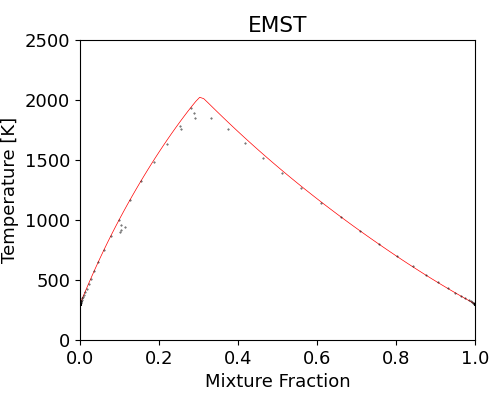
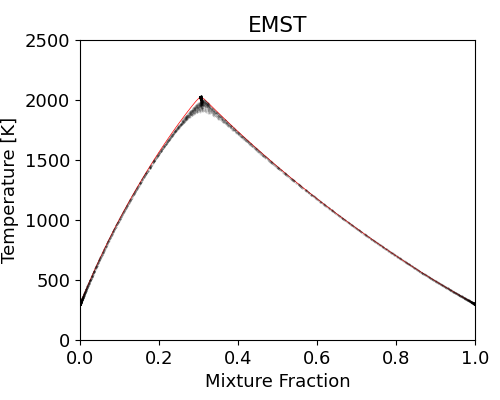
add implementation details; change EMST timescale

diff --git a/PaSR_main.py b/PaSR_main.py
@@ -41,6 +41,10 @@ def run_simulation(mech, case, T0, P, eq_ratio, fuel, oxidizer, mix_model="IEM",
     """
     # Time step control
     dt = 0.1 * min(tau_res, tau_mix)
+
+    if mix_model=="EMST" or mix_model=="EMST1D": # EMST need smaller timestep
+        dt /= 5
+
     time_end = num_res * tau_res
     num_steps = int(time_end / dt + 10)
 
@@ -133,7 +137,7 @@ def run_simulation(mech, case, T0, P, eq_ratio, fuel, oxidizer, mix_model="IEM",
         else:
             dt = dt
 
-        # ======
+        # ==========
         # flow in/out
         part_out += Np * dt / tau_res
         npart_out = int(round(part_out))
@@ -146,20 +150,20 @@ def run_simulation(mech, case, T0, P, eq_ratio, fuel, oxidizer, mix_model="IEM",
 
         t1 = time.time()
 
-        # ======
+        # ==========
         # mixing
         mix_substep(particles, dt, tau_mix,
                     fuel, oxidizer, model=mix_model, sigma_k=sigma_k)
 
         t2 = time.time()
 
-        # ======
+        # ==========
         # reacting
         reaction_substep(particles, dt, mech)
 
         t3 = time.time()
 
-        # ======
+        # ==========
         # Save states
         t += dt
         i_step += 1
@@ -169,10 +173,10 @@ def run_simulation(mech, case, T0, P, eq_ratio, fuel, oxidizer, mix_model="IEM",
         save_data(i_step, t, particles, particle_data)
 
         print('t/tres = {:4.2f},  <T> = {:6.1f}'.format(t/tau_res, temp_mean[i_step]))
-        # print('{:.1e}, {:.1e}, {:.1e}'.format(
-        #        t1-t0,  t2-t1,  t3-t2)
+        # print('cost  of flow {:.1e}, mix {:.1e}, react {:.1e}'.format(
+        #                       t1-t0,      t2-t1,        t3-t2)
 
-        # ======
+        # ==========
         # plot
         if doplot:
             plt.ion()
@@ -269,12 +273,12 @@ if __name__ == "__main__":
     plt.figure(2, figsize=(5,4))
     plt.plot(mfs, Teq, 'r-', lw=0.5)
     mf_arr = []
-    for j in range(Ntimes-1, Ntimes, 1):
+    for j in range(Ntimes-100, Ntimes, 5):
         mf = np.array([get_mixture_fraction(gas, inputs['fuel'], inputs['oxidizer'], 
                 particle_data[j,i,3:]) for i in range(Nparticles)])
         Tp = particle_data[j,:,1]
         mf_arr.append(mf)
-        plt.plot(mf, Tp, 'k.', ms=0.8, alpha=0.8)
+        plt.plot(mf, Tp, 'k.', ms=0.8, alpha=0.2)
     plt.xlim([0,1])
     plt.ylim([0,2500])
     plt.title(casename)
@@ -292,5 +296,17 @@ if __name__ == "__main__":
     plt.xlim([0,1])
     plt.xlabel("Z")
     plt.ylabel("PDF")
+
+    # plt.figure(4, figsize=(5,4))
+    # for j in range(Ntimes-1, Ntimes, 1):
+    #     mf = np.array([get_mixture_fraction(gas, inputs['fuel'], inputs['oxidizer'], 
+    #             particle_data[j,i,3:]) for i in range(Nparticles)])
+    #     Tp = particle_data[j,:,1+gas.species_index("OH")]
+    #     plt.plot(mf, Tp, 'k.', ms=0.8, alpha=0.8)
+    # plt.xlim([0,1])
+    # plt.title(casename)
+    # plt.xlabel("Mixture Fraction")
+    # plt.ylabel("Y_{OH}")
+    # plt.subplots_adjust(left=0.16, right=0.95, top=0.9, bottom=0.15)
 
     plt.show()

diff --git a/PaSR_models.py b/PaSR_models.py
@@ -181,7 +181,8 @@ def mix_substep(particles, dt, tau_mix, fuel, oxidizer, model="IEM", sigma_k=Non
             BB = 2*np.mean(dphi * phis, axis=0)
             CC = 1./tau_mix * varPhi
             dt = min(dt, np.min(1. * BB**2 / (4*AA*CC)))
-            alphaPhi = ( -BB + np.sqrt(abs(BB*BB-4*AA*CC*dt)) ) / (2*AA*dt)
+            alphaPhi = -BB / (2*AA*dt)
+            #alphaPhi = ( -BB - np.sqrt(abs(BB*BB-4*AA*CC*dt)) ) / (2*AA*dt)
             alphaPhi = np.min(alphaPhi)
             
             dt = dt_in if dt_in <= dt else dt
@@ -282,7 +283,8 @@ def mix_substep(particles, dt, tau_mix, fuel, oxidizer, model="IEM", sigma_k=Non
             BB = 2*np.mean(dphi * phis, axis=0)
             CC = 1./tau_mix * varPhi
             dt = min(dt, np.min(1. * BB**2 / (4*AA*CC)))
-            alphaPhi = ( -BB + np.sqrt(abs(BB*BB-4*AA*CC*dt)) ) / (2*AA*dt)
+            alphaPhi =  -BB / (2*AA*dt)
+            # alphaPhi = ( -BB - np.sqrt(abs(BB*BB-4*AA*CC*dt)) ) / (2*AA*dt)
             alphaPhi = np.min(alphaPhi)
 
             dt = dt_in if dt_in <= dt else dt
@@ -300,7 +302,7 @@ def mix_substep(particles, dt, tau_mix, fuel, oxidizer, model="IEM", sigma_k=Non
 
             dt_in -= dt
 
-            # print("[DEBUG] EMST looping dt_in = %6.1e, dt = %6.1e, alpha = %6.1e"%(dt_in, dt, alphaPhi))
+            print("[DEBUG] EMST looping dt_in = %6.1e, dt = %6.1e, alpha = %6.1e"%(dt_in, dt, alphaPhi))
             # sys.exit(0)
 
     elif model=="KerM":

diff --git a/README.md b/README.md
@@ -16,13 +16,51 @@ networkx
 
 + PaSR simulation results of H2/N2-Air mixture, with IEM, MC and EMST as mixing model.
 
-	<img src="figs/IEM_Z-T.png" style="width:30%;" /> <img src="figs/MC_Z-T.png" style="width:30%;" /> <img src="figs/EMST_Z-T.png" style="width:30%;" />
+  <img src="figs/IEM_Z-T.png" style="width:32%;" /> <img src="figs/MC_Z-T.png" style="width:32%;" /> <img src="figs/EMST_Z-T.png" style="width:32%;" />
 
 + PaSR simulation results of H2/N2-Air mixture, with KerM as mixing model of different kernel sizes.
 
-  <img src="figs/KerM10_Z-T.png" style="width:30%;" /> <img src="figs/KerM03_Z-T.png" style="width:30%;" /> <img src="figs/KerM01_Z-T.png" style="width:30%;" />
+  <img src="figs/KerM10_Z-T.png" style="width:32%;" /> <img src="figs/KerM03_Z-T.png" style="width:32%;" /> <img src="figs/KerM01_Z-T.png" style="width:32%;" />
 
 
 
 #### 3. Implementation details
 
+##### 3.1 EMST variance decay
+
+The mixing happens on the edges of EMST tree, with:
+
+<img src="https://latex.codecogs.com/svg.image?\frac{d\phi_i}{dt}=-\alpha\frac{1}{w_i}\sum_v^{N_T-1}B_v\{(\phi_i-\phi_{n_v})\delta_{im_v}+(\phi_i-\phi_{m_v})\delta_{in_v}\}"/>
+
+The parameter $\alpha$ controls the variance decay rate. Denoting <img src="https://latex.codecogs.com/svg.image?d\phi_i=\frac{1}{\alpha}\frac{d\phi_i}{dt}" />, then from time <img src="https://latex.codecogs.com/svg.image?t"/> to <img src="https://latex.codecogs.com/svg.image?t+\delta t"/>, one has:
+
+<img src="https://latex.codecogs.com/svg.image?\begin{align*}Var(t&plus;\delta&space;t)-Var(t)&=\frac{1}{N}\sum_i^N(\phi_i&plus;\alpha&space;d\phi_i\delta&space;t-\bar\phi)^2&space;-&space;\frac{1}{N}\sum_i^N(\phi_i-\bar\phi)^2\\&=\frac{1}{N}\sum_i^N\left[2\alpha&space;d\phi_i\delta&space;t(\phi_i-\bar\phi)&space;&plus;&space;\alpha^2&space;d\phi_i^2&space;\delta&space;t^2\right]\\&=2\alpha&space;\delta&space;t&space;\langle&space;\phi&space;\cdot&space;d\phi&space;\rangle&space;&plus;&space;\alpha^2\delta&space;t^2\langle&space;d\phi^2\rangle\end{align*}" title="\begin{align*}Var(t+\delta t)-Var(t)&=\frac{1}{N}\sum_i^N(\phi_i+\alpha d\phi_i\delta t-\bar\phi)^2 - \frac{1}{N}\sum_i^N(\phi_i-\bar\phi)^2\\&=\frac{1}{N}\sum_i^N\left[2\alpha d\phi_i\delta t(\phi_i-\bar\phi) + \alpha^2 d\phi_i^2 \delta t^2\right]\\&=2\alpha \delta t \langle \phi \cdot d\phi \rangle + \alpha^2\delta t^2\langle d\phi^2\rangle\end{align*}" />
+
+And by variance decay rule of micro-mixing model:
+$$
+Var(t+\delta t)-Var(t) = \left[e^{-\Omega_\phi\delta t}-1\right]Var(t)  \approx -\Omega_\phi \delta t Var(t)
+$$
+Thus, following the variance decay rule, we need to let <img src="https://latex.codecogs.com/svg.image?\alpha"/> satisfy the equation
+$$
+\begin{align*}
+\alpha^2\delta t\langle d\phi^2\rangle + 2\alpha \langle \phi \cdot d\phi \rangle + \Omega_\phi \langle\phi''^2\rangle = 0
+\end{align*}
+$$
+In general, $A\equiv\delta t\langle d\phi^2\rangle>0$, $B\equiv 2 \langle \phi \cdot d\phi \rangle <0$, $C\equiv\Omega_\phi \langle\phi''^2\rangle>0$. To get at least one real number solution, one need:
+$$
+B^2-4AC\ge0 \Rightarrow \delta t\le \frac{\langle\phi\cdot d\phi\rangle}{\Omega_\phi\langle d\phi^2\rangle\langle\phi''^2\rangle}
+$$
+Once $\delta t$ is selected, the mixing ratio $\alpha$ is hence to be:
+$$
+\alpha=\frac{-B+\sqrt{B^2-4AC}}{2A}
+$$
+
+
+
+
+
+
+#### 4. References
+
++ PaSR: https://github.com/SLACKHA/pyJac/blob/master/pyjac/functional_tester/partially_stirred_reactor.py
++ EMST: https://tcg.mae.cornell.edu/emst/
